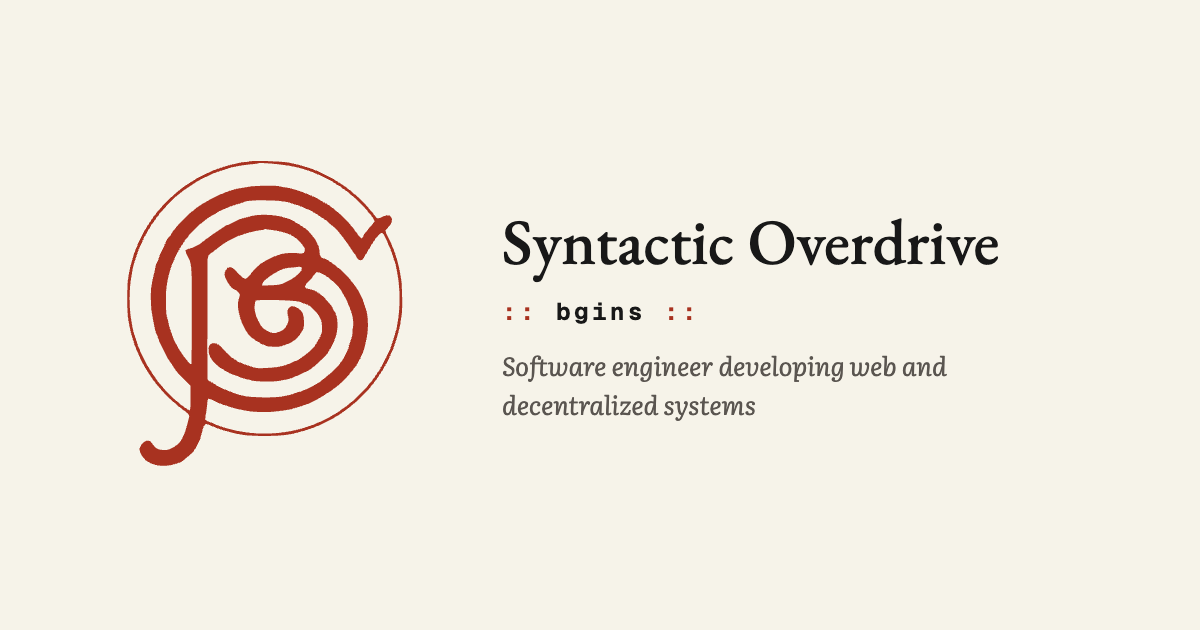
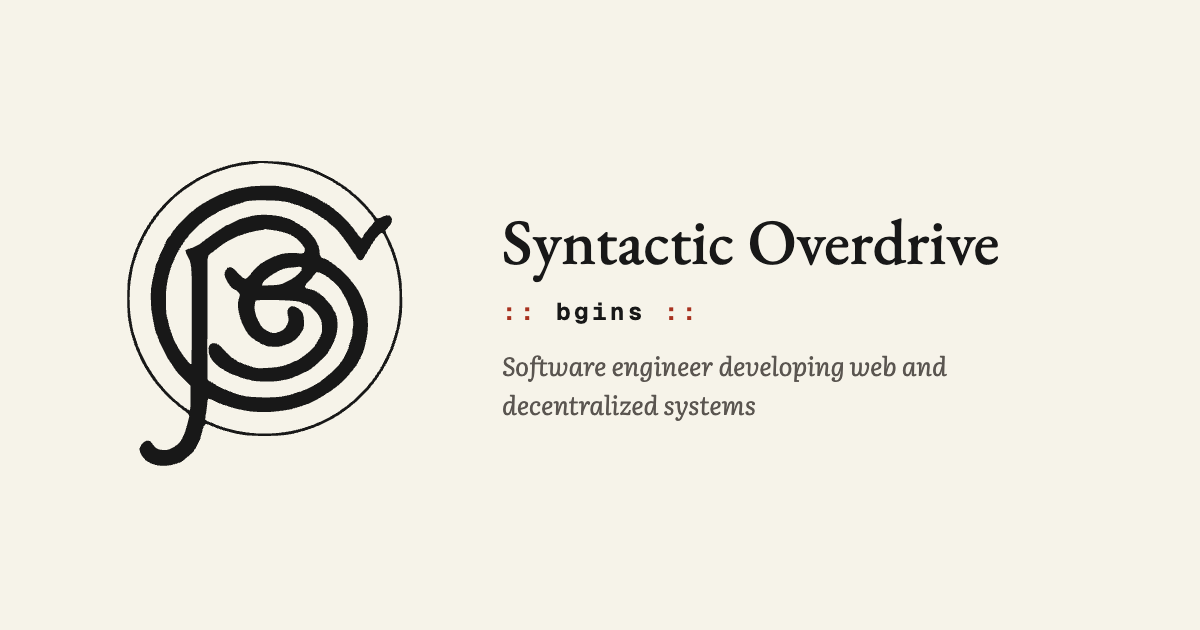
refactor: ink the monogram and quiet the colophon
The device inks in the text ink rather than vermilion, which read too
loud for the mark; it now ties to the bgins wordmark and lets the
interlace carry itself. The social card is regenerated to match. The
colophon drops its heading and the em-rule placeholder, leaving quiet
furniture: the seal, the links, the theme switch, and the set line.

Changed region(s): [[0.0925, 0.2413, 0.3392, 0.754]]

diff --git a/src/lib/components/Colophon.svelte b/src/lib/components/Colophon.svelte
@@ -6,8 +6,6 @@
 <footer>
   <div id="inner">
     <div id="seal"><Device size={44} /></div>
-    <div id="motto" aria-hidden="true">———</div>
-    <div id="head">// colophon</div>
     <nav>
       <a href="/feed.xml">feed</a>
       <span class="sep">·</span>
@@ -45,19 +43,8 @@
   }
 
   #seal {
-    color: var(--rubric);
-    padding-bottom: 2px;
-  }
-
-  #motto {
-    color: var(--w-faint);
-  }
-
-  #head {
-    font-weight: 600;
-    text-transform: uppercase;
-    letter-spacing: 0.16em;
-    color: var(--ink-muted);
+    color: var(--ink);
+    padding-bottom: 4px;
   }
 
   nav {

diff --git a/src/lib/components/Hero.svelte b/src/lib/components/Hero.svelte
@@ -224,7 +224,7 @@
   }
 
   .mark path {
-    fill: var(--rubric);
+    fill: var(--ink);
   }
 
   /* back — the contact plate, fixed light in both themes so it always scans */
